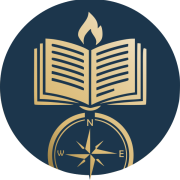
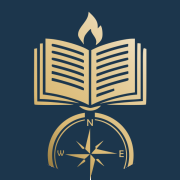
feat: Update application branding assets and UI elements, configure Vite server host, and enable Docker local testing instructions.

Changed region(s): [[0.0, 0.5, 1.0, 1.0], [0.5833, 0.0, 1.0, 0.4444], [0.0, 0.0, 0.4167, 0.4444]]

diff --git a/vite.config.js b/vite.config.js
@@ -11,6 +11,10 @@ export default defineConfig({
         tailwindcss(),
     ],
     server: {
+        host: '0.0.0.0',
+        hmr: {
+            host: 'localhost',
+        },
         watch: {
             ignored: ['**/storage/framework/views/**'],
         },

diff --git a/resources/views/devotionals.blade.php b/resources/views/devotionals.blade.php
@@ -129,7 +129,7 @@
         <header class="fixed top-0 w-full max-w-lg z-40 bg-white/90 dark:bg-slate-900/90 backdrop-blur-md border-b border-slate-200 dark:border-slate-800 transition-colors">
             <div class="flex items-center justify-between px-4 h-16">
                 <div class="flex items-center">
-                    <img src="https://storage.googleapis.com/iprviamao-com-br/images_site/logo_lampada_154x59.png" alt="Logo Lâmpada" class="h-10 w-auto">
+                    <img src="https://storage.googleapis.com/iprviamao-com-br/lampada/logo_lampada_app.webp" alt="Logo Lâmpada" class="h-10 w-auto">
                 </div>
 
                 <button
@@ -286,8 +286,8 @@
                     @click="showAiChat = true"
                     type="button"
                     class="flex flex-col items-center justify-center flex-1 h-full text-slate-400 hover:text-amber-600 transition-colors">
-                    <x-lucide-lamp class="w-6 h-6 mb-1" />
-                    <span class="text-[10px] font-medium">LampIÃo</span>
+                    <x-lucide-siren class="w-6 h-6 mb-1" />
+                    <span class="text-[10px] font-medium">Lampião</span>
                 </button>
 
                 <a href="https://iprviamao.com.br/lampada/" target="_blank" class="flex flex-col items-center justify-center flex-1 h-full text-slate-400 hover:text-amber-600 transition-colors">
